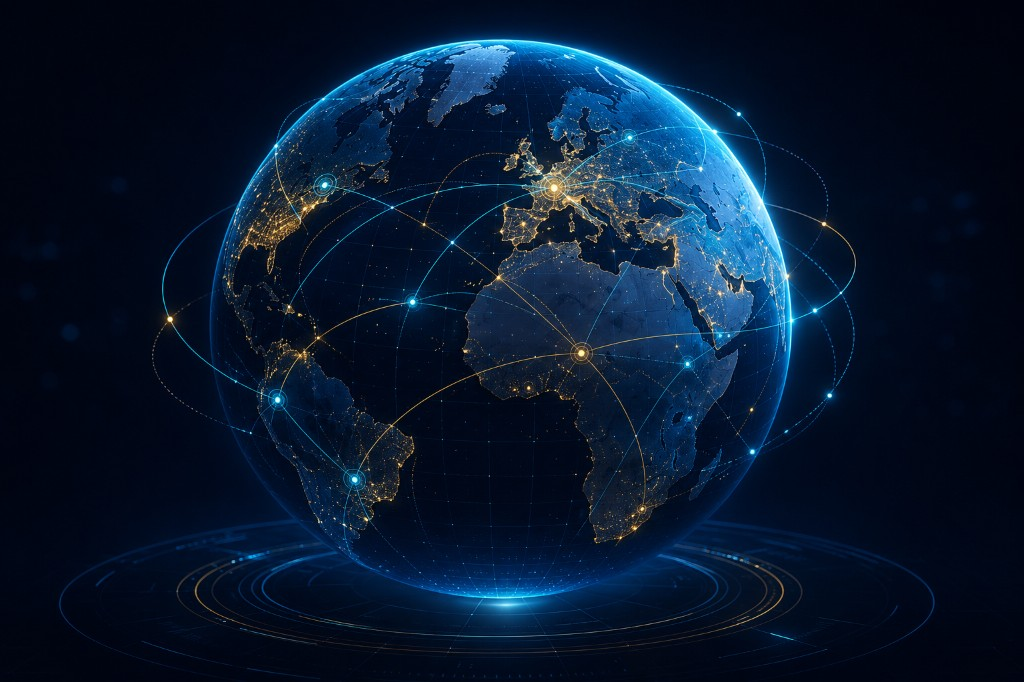
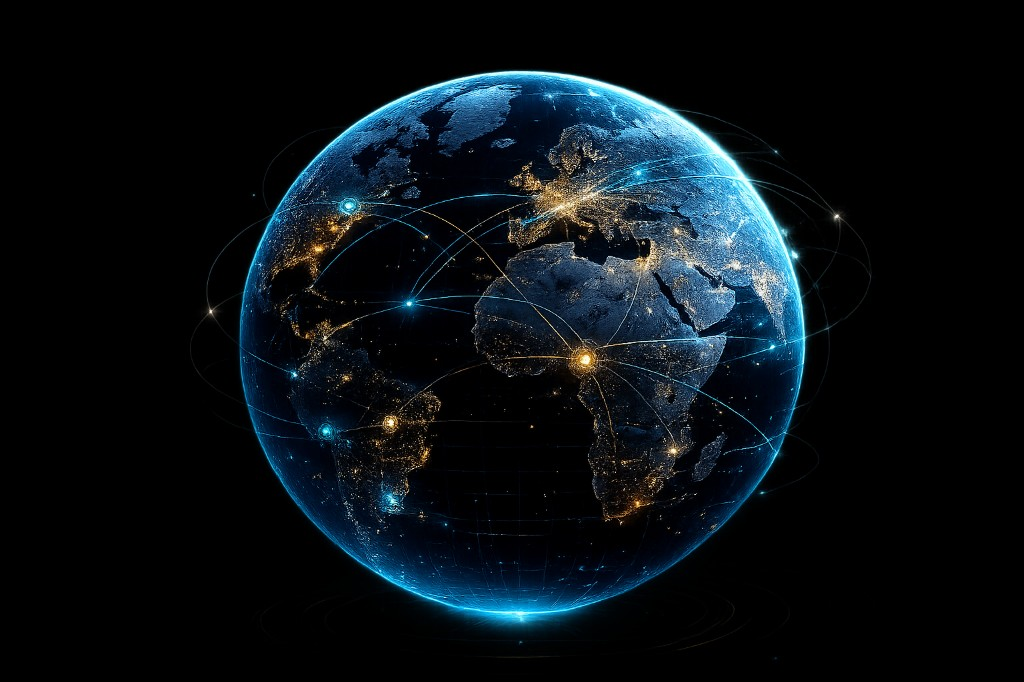
Swap in the new network globe and animate orbiting light points.
Replace the previous Earth asset and add cyan/gold dots that continuously travel along elliptical orbits around the globe.

diff --git a/src/components/site/visuals/NetworkGlobe.tsx b/src/components/site/visuals/NetworkGlobe.tsx
@@ -1,7 +1,7 @@
 "use client";
 
 import Image from "next/image";
-import { useEffect, useState } from "react";
+import { useEffect, useId, useState } from "react";
 import { cn } from "@/lib/utils";
 
 type NetworkGlobeProps = {
@@ -9,10 +9,44 @@ type NetworkGlobeProps = {
   compact?: boolean;
 };
 
+type OrbitRing = {
+  rx: number;
+  ry: number;
+  rotate: number;
+};
+
+type OrbitDot = OrbitRing & {
+  dur: string;
+  tone: "cyan" | "gold";
+  size: number;
+  begin: string;
+};
+
+const RINGS: OrbitRing[] = [
+  { rx: 310, ry: 108, rotate: -18 },
+  { rx: 280, ry: 92, rotate: 22 },
+  { rx: 340, ry: 78, rotate: 8 },
+  { rx: 255, ry: 118, rotate: -42 },
+];
+
+const DOTS: OrbitDot[] = [
+  { ...RINGS[0], dur: "14s", tone: "cyan", size: 5, begin: "0s" },
+  { ...RINGS[0], dur: "14s", tone: "gold", size: 3.5, begin: "-4.5s" },
+  { ...RINGS[0], dur: "14s", tone: "cyan", size: 3, begin: "-9s" },
+  { ...RINGS[1], dur: "18s", tone: "gold", size: 4.5, begin: "0s" },
+  { ...RINGS[1], dur: "18s", tone: "cyan", size: 3, begin: "-6s" },
+  { ...RINGS[1], dur: "18s", tone: "gold", size: 2.5, begin: "-12s" },
+  { ...RINGS[2], dur: "22s", tone: "cyan", size: 3.5, begin: "-2s" },
+  { ...RINGS[2], dur: "22s", tone: "gold", size: 2.5, begin: "-13s" },
+  { ...RINGS[3], dur: "16s", tone: "cyan", size: 3, begin: "-1s" },
+  { ...RINGS[3], dur: "16s", tone: "gold", size: 4, begin: "-8s" },
+];
+
 /**
- * Hero / network globe — official ViaNexis holographic Earth asset.
+ * Hero / network globe — official ViaNexis Earth asset with orbiting light points.
  */
 export function NetworkGlobe({ className, compact = false }: NetworkGlobeProps) {
+  const uid = useId().replace(/:/g, "");
   const [viewportCompact, setViewportCompact] = useState(false);
   const [reducedMotion, setReducedMotion] = useState(false);
 
@@ -36,23 +70,25 @@ export function NetworkGlobe({ className, compact = false }: NetworkGlobeProps) 
 
   const isCompact = compact || viewportCompact;
   const animated = !reducedMotion;
+  const cx = 512;
+  const cy = 348;
 
   return (
     <div
       className={cn(
         "relative mx-auto w-full",
-        isCompact ? "max-w-[320px]" : "max-w-[520px]",
+        isCompact ? "max-w-[340px]" : "max-w-[560px]",
         className,
       )}
       aria-hidden="true"
     >
       <div
         className={cn(
-          "pointer-events-none absolute inset-[8%] rounded-full bg-cyan-glow/20 blur-3xl",
+          "pointer-events-none absolute inset-[10%] rounded-full bg-cyan-glow/18 blur-3xl",
           animated && "animate-pulse-glow",
         )}
       />
-      <div className="pointer-events-none absolute inset-[28%] rounded-full bg-gold-core/10 blur-2xl" />
+      <div className="pointer-events-none absolute inset-[30%] rounded-full bg-gold-core/10 blur-2xl" />
 
       <div className="relative aspect-[1024/682] w-full">
         <Image
@@ -61,16 +97,151 @@ export function NetworkGlobe({ className, compact = false }: NetworkGlobeProps) 
           fill
           sizes={
             isCompact
-              ? "(max-width: 768px) 320px, 360px"
-              : "(max-width: 1024px) 420px, 520px"
+              ? "(max-width: 768px) 340px, 380px"
+              : "(max-width: 1024px) 460px, 560px"
           }
           className={cn(
-            "object-contain drop-shadow-[0_0_48px_rgb(0_191_255_/_0.35)]",
+            "object-contain drop-shadow-[0_0_52px_rgb(0_191_255_/_0.4)]",
             animated && "animate-globe-drift",
           )}
           priority
         />
+
+        <svg
+          viewBox="0 0 1024 682"
+          className="pointer-events-none absolute inset-0 h-full w-full"
+          fill="none"
+          xmlns="http://www.w3.org/2000/svg"
+        >
+          <defs>
+            {RINGS.map((ring, i) => (
+              <path
+                key={`path-${i}`}
+                id={`globe-orbit-${uid}-${i}`}
+                d={ellipsePath(cx, cy, ring.rx, ring.ry)}
+                transform={`rotate(${ring.rotate} ${cx} ${cy})`}
+              />
+            ))}
+            <filter
+              id={`globe-dot-glow-${uid}`}
+              x="-80%"
+              y="-80%"
+              width="260%"
+              height="260%"
+            >
+              <feGaussianBlur stdDeviation="2.2" result="b" />
+              <feMerge>
+                <feMergeNode in="b" />
+                <feMergeNode in="SourceGraphic" />
+              </feMerge>
+            </filter>
+          </defs>
+
+          {RINGS.map((ring, i) => (
+            <ellipse
+              key={`ring-${i}`}
+              cx={cx}
+              cy={cy}
+              rx={ring.rx}
+              ry={ring.ry}
+              transform={`rotate(${ring.rotate} ${cx} ${cy})`}
+              stroke={i % 2 === 0 ? "#00BFFF" : "#D4AF37"}
+              strokeOpacity={0.2}
+              strokeWidth="1"
+              strokeDasharray={i === 2 ? "3 10" : "2 8"}
+            />
+          ))}
+
+          {(animated ? DOTS : DOTS.slice(0, 4)).map((dot, i) => {
+            const ringIndex = RINGS.findIndex(
+              (r) =>
+                r.rx === dot.rx && r.ry === dot.ry && r.rotate === dot.rotate,
+            );
+            const pathId = `globe-orbit-${uid}-${ringIndex}`;
+            const color = dot.tone === "gold" ? "#D4AF37" : "#00BFFF";
+
+            if (!animated) {
+              const pt = ellipsePoint(
+                cx,
+                cy,
+                dot.rx,
+                dot.ry,
+                dot.rotate,
+                (i / 4) * Math.PI * 2,
+              );
+              return (
+                <circle
+                  key={`static-${i}`}
+                  cx={pt.x}
+                  cy={pt.y}
+                  r={dot.size}
+                  fill={color}
+                  filter={`url(#globe-dot-glow-${uid})`}
+                />
+              );
+            }
+
+            return (
+              <g key={`dot-${i}`} filter={`url(#globe-dot-glow-${uid})`}>
+                <circle r={dot.size * 2.1} fill={color} fillOpacity="0.25">
+                  <animateMotion
+                    dur={dot.dur}
+                    begin={dot.begin}
+                    repeatCount="indefinite"
+                  >
+                    <mpath href={`#${pathId}`} />
+                  </animateMotion>
+                </circle>
+                <circle r={dot.size} fill={color}>
+                  <animateMotion
+                    dur={dot.dur}
+                    begin={dot.begin}
+                    repeatCount="indefinite"
+                  >
+                    <mpath href={`#${pathId}`} />
+                  </animateMotion>
+                </circle>
+                <circle
+                  r={Math.max(1.1, dot.size * 0.32)}
+                  fill="#FFFFFF"
+                  fillOpacity="0.92"
+                >
+                  <animateMotion
+                    dur={dot.dur}
+                    begin={dot.begin}
+                    repeatCount="indefinite"
+                  >
+                    <mpath href={`#${pathId}`} />
+                  </animateMotion>
+                </circle>
+              </g>
+            );
+          })}
+        </svg>
       </div>
     </div>
   );
+}
+
+function ellipsePath(cx: number, cy: number, rx: number, ry: number): string {
+  return `M ${cx - rx} ${cy} A ${rx} ${ry} 0 1 1 ${cx + rx} ${cy} A ${rx} ${ry} 0 1 1 ${cx - rx} ${cy}`;
+}
+
+function ellipsePoint(
+  cx: number,
+  cy: number,
+  rx: number,
+  ry: number,
+  rotateDeg: number,
+  angle: number,
+) {
+  const x = rx * Math.cos(angle);
+  const y = ry * Math.sin(angle);
+  const rad = (rotateDeg * Math.PI) / 180;
+  const cos = Math.cos(rad);
+  const sin = Math.sin(rad);
+  return {
+    x: cx + x * cos - y * sin,
+    y: cy + x * sin + y * cos,
+  };
 }

diff --git a/src/app/globals.css b/src/app/globals.css
@@ -343,7 +343,8 @@ html {
 }
 
 @media (prefers-reduced-motion: reduce) {
-  .animate-globe-drift {
+  .animate-globe-drift,
+  .animate-orbit {
     animation: none;
   }
 }